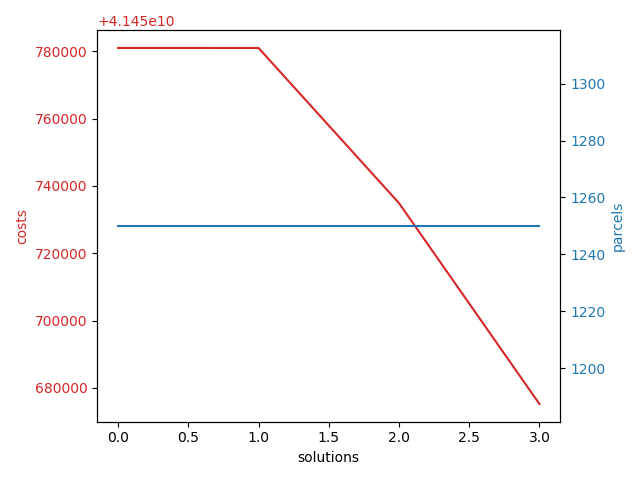
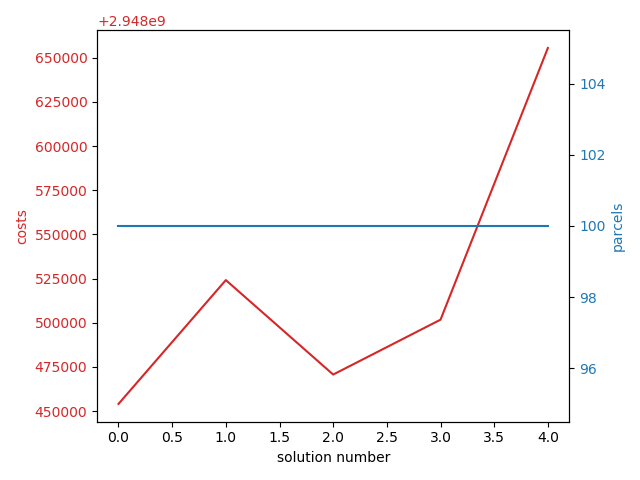
graph update

diff --git a/visualisation/graph.py b/visualisation/graph.py
@@ -28,7 +28,7 @@ def linegraph(results_costs, results_parcels):
     fig, ax1 = plt.subplots()
 
     color = 'tab:red'
-    ax1.set_xlabel('solutions')
+    ax1.set_xlabel('solution number')
     ax1.set_ylabel('costs', color=color)
     ax1.plot(results_costs, color=color)
     ax1.tick_params(axis='y', labelcolor=color)
